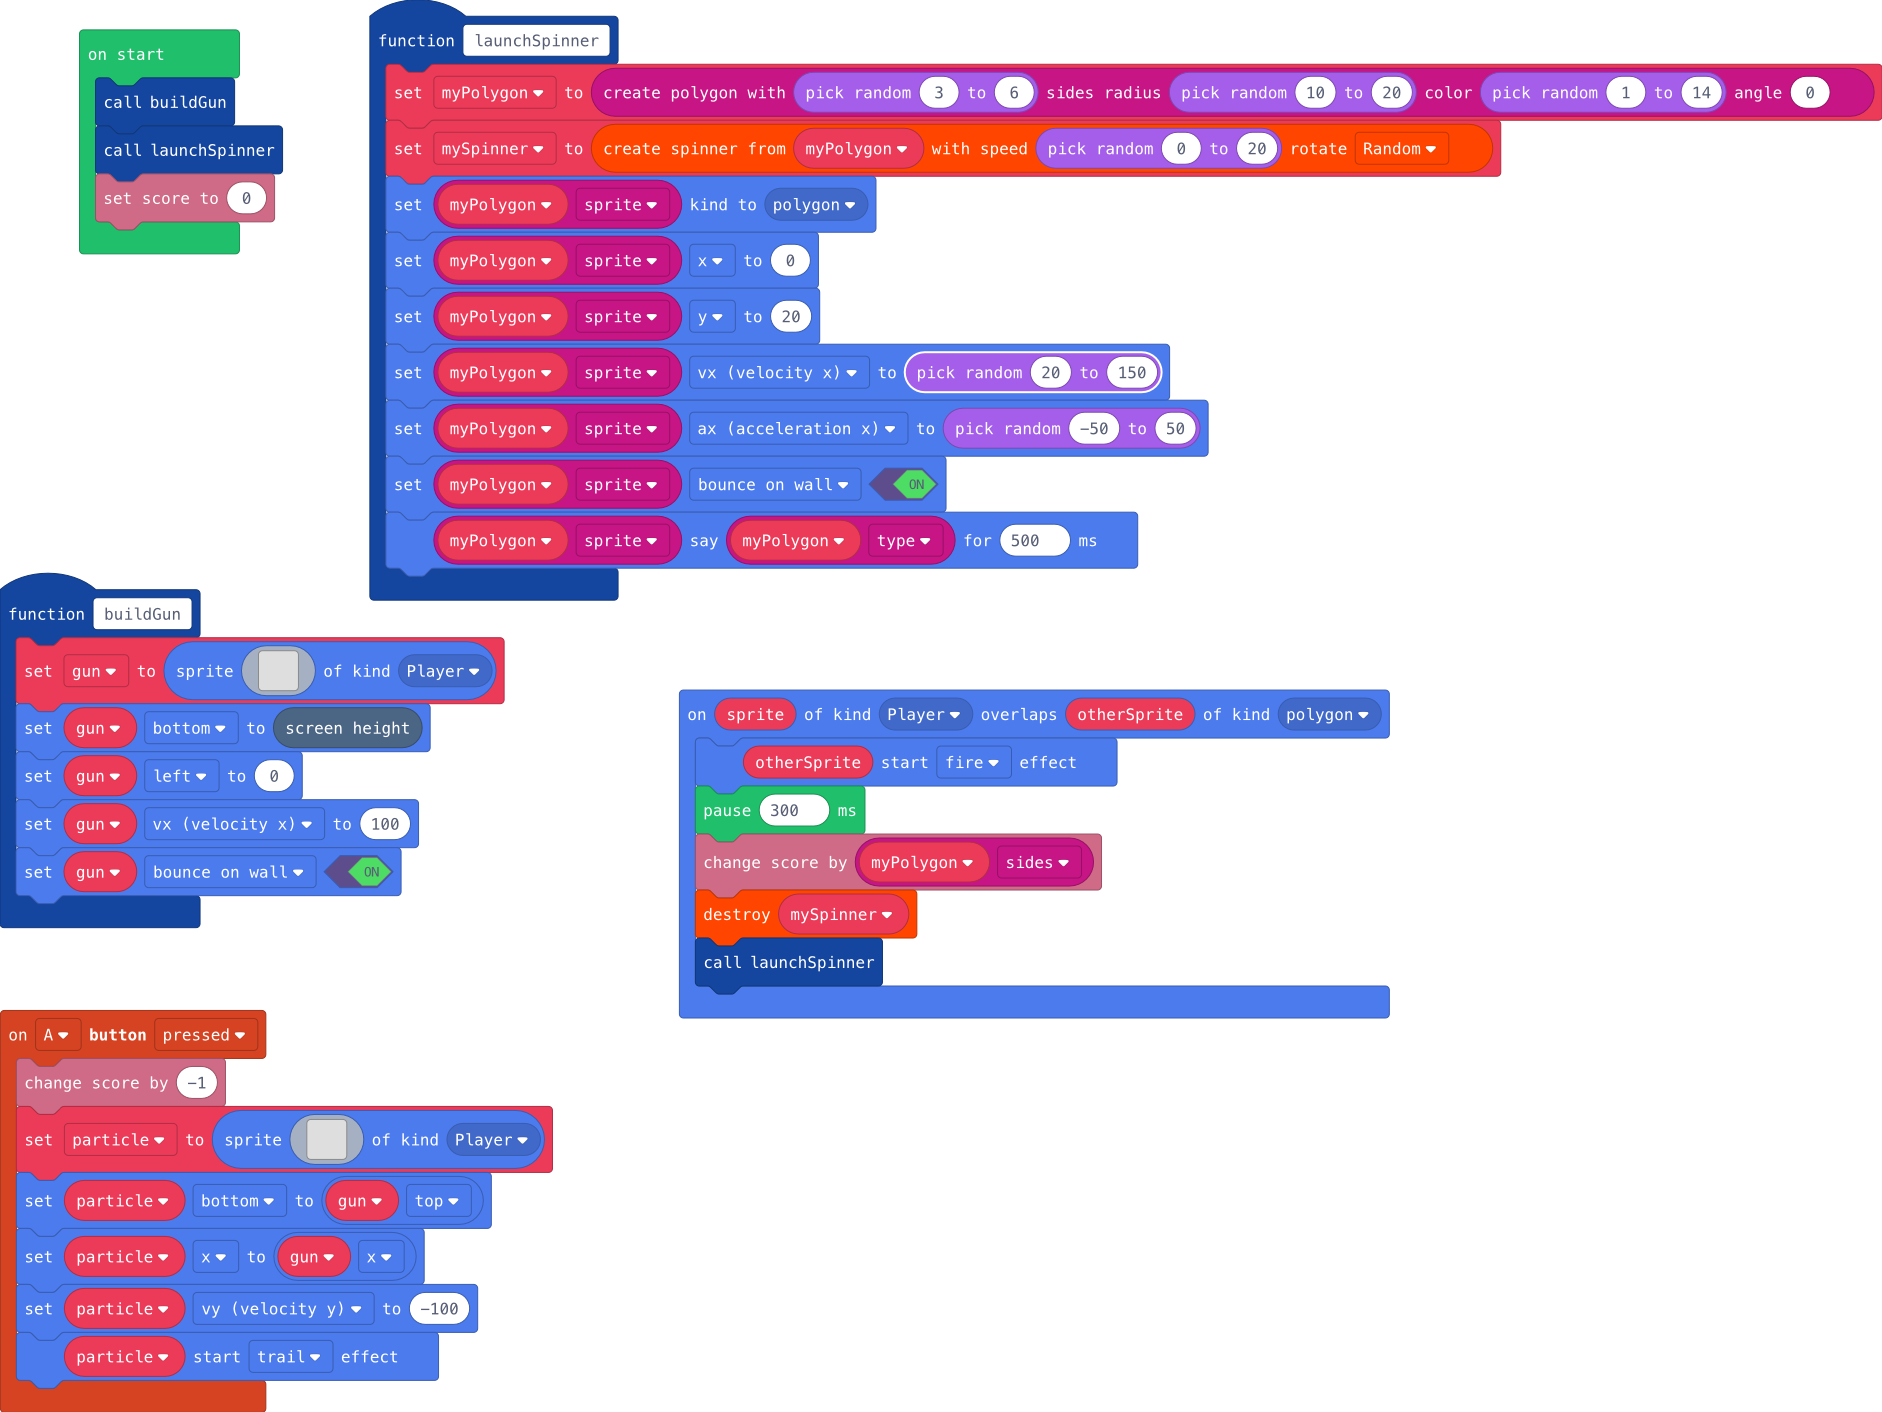
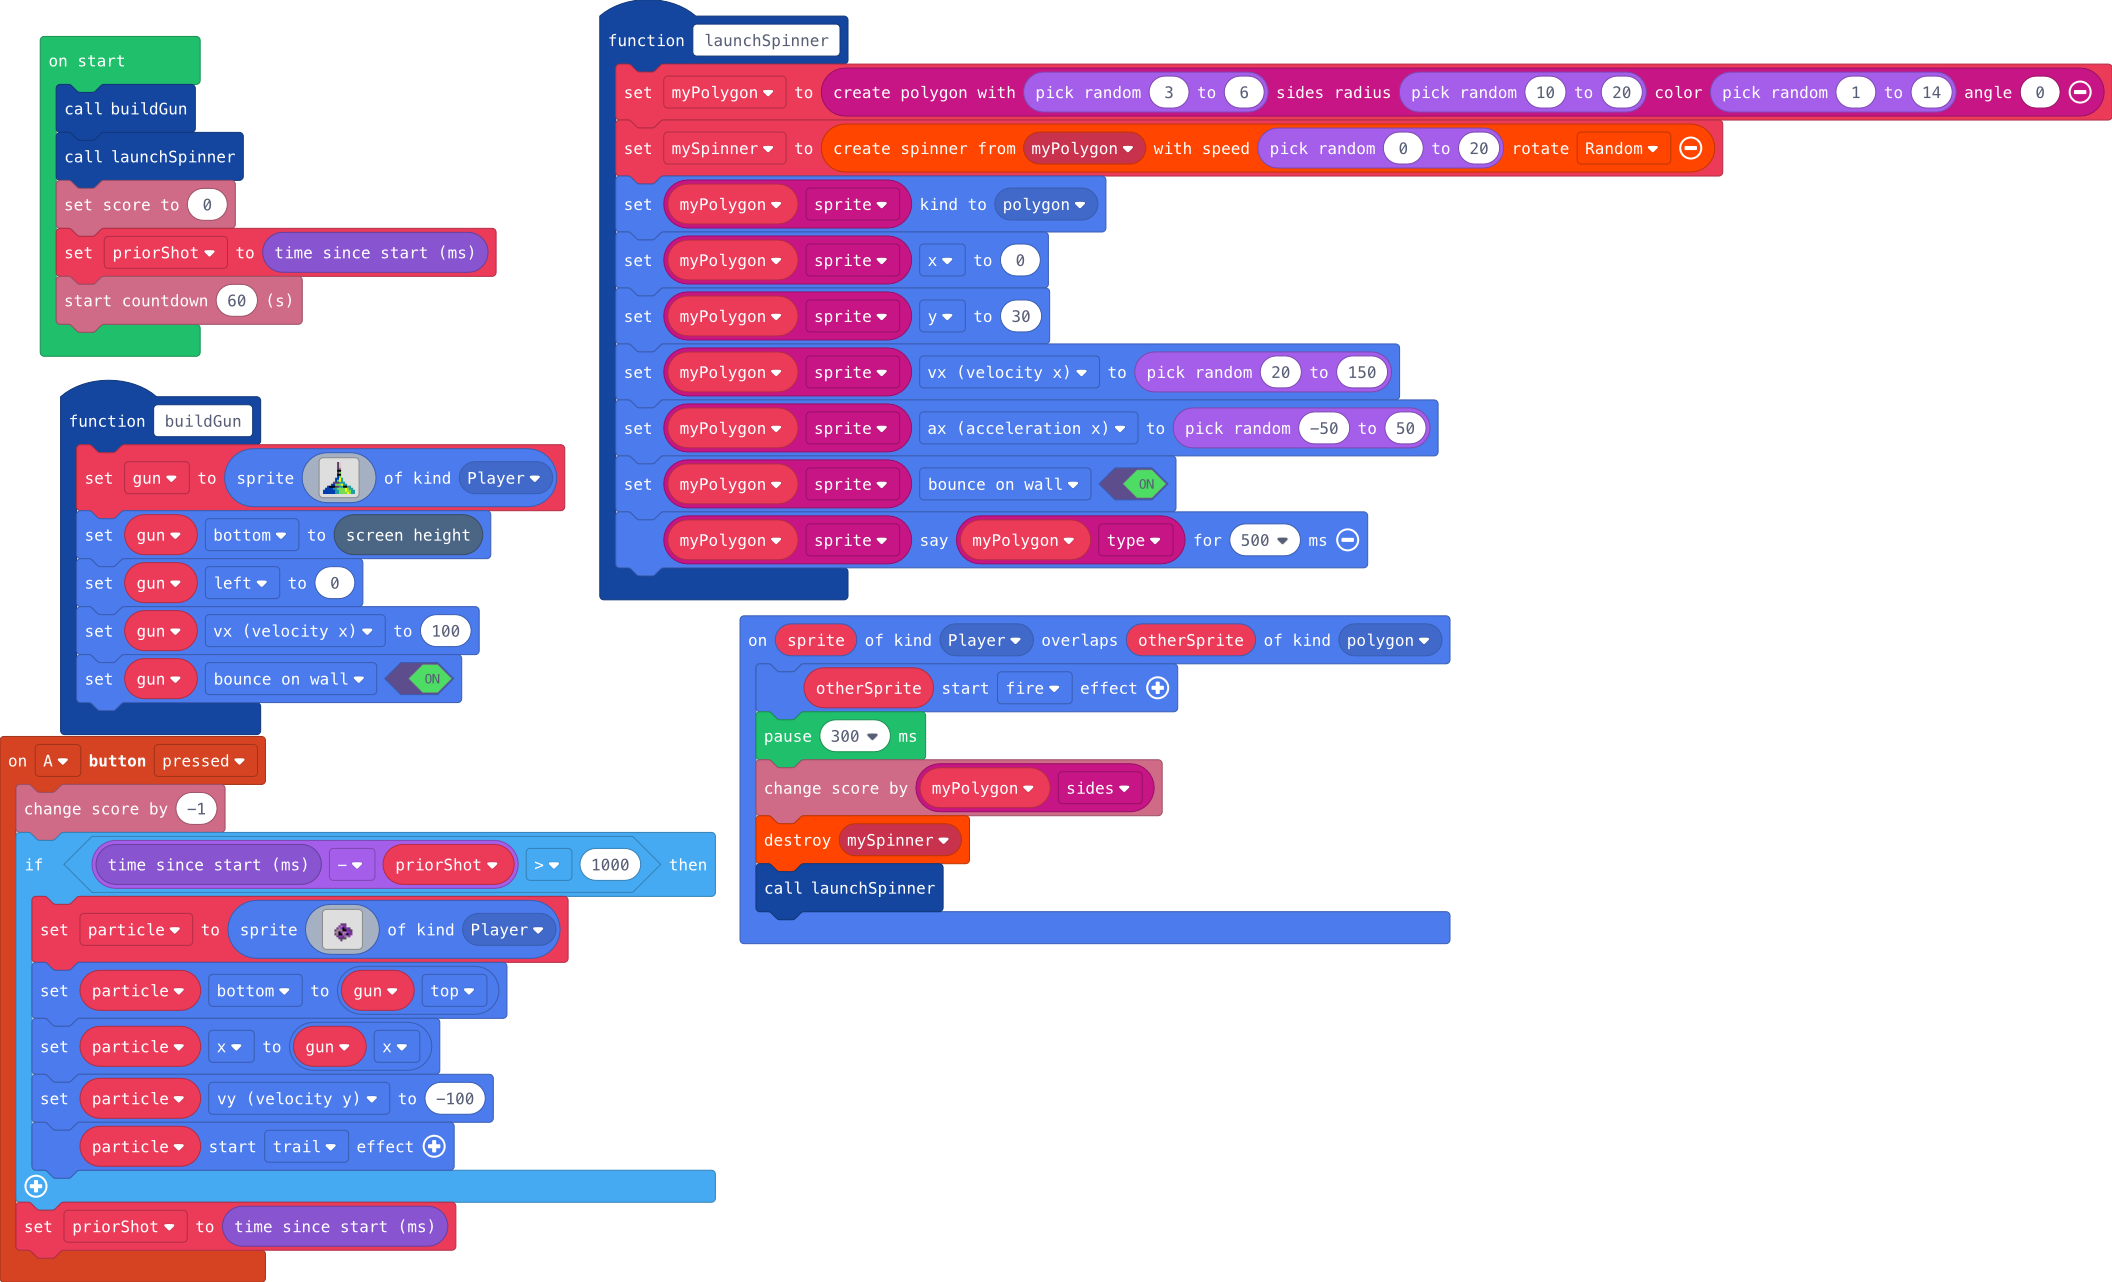
Update main.blocks, main.ts

diff --git a/main.ts b/main.ts
@@ -30,7 +30,7 @@ function launchSpinner () {
     mySpinner = spinner.createSpinner(myPolygon, Math.randomRange(0, 20), Direction.Random)
     myPolygon.sprite.setKind(SpriteKind.polygon)
     myPolygon.sprite.x = 0
-    myPolygon.sprite.y = 20
+    myPolygon.sprite.y = 30
     myPolygon.sprite.vx = Math.randomRange(20, 150)
     myPolygon.sprite.ax = Math.randomRange(-50, 50)
     myPolygon.sprite.setFlag(SpriteFlag.BounceOnWall, true)
@@ -38,7 +38,8 @@ function launchSpinner () {
 }
 controller.A.onEvent(ControllerButtonEvent.Pressed, function () {
     info.changeScoreBy(-1)
-    particle = sprites.create(img`
+    if (game.runtime() - priorShot > 1000) {
+        particle = sprites.create(img`
 . . . . . . . . . . . . . . . . 
 . . . . . . . . . . . . . . . . 
 . . . . . . . . . . . . . . . . 
@@ -56,10 +57,12 @@ controller.A.onEvent(ControllerButtonEvent.Pressed, function () {
 . . . . . . . . . . . . . . . . 
 . . . . . . . . . . . . . . . . 
 `, SpriteKind.Player)
-    particle.bottom = gun.top
-    particle.x = gun.x
-    particle.vy = -100
-    particle.startEffect(effects.trail)
+        particle.bottom = gun.top
+        particle.x = gun.x
+        particle.vy = -100
+        particle.startEffect(effects.trail)
+    }
+    priorShot = game.runtime()
 })
 sprites.onOverlap(SpriteKind.Player, SpriteKind.polygon, function (sprite, otherSprite) {
     otherSprite.startEffect(effects.fire)
@@ -72,6 +75,9 @@ let particle: Sprite = null
 let mySpinner: spinner.Spinner = null
 let myPolygon: Polygon = null
 let gun: Sprite = null
+let priorShot = 0
 buildGun()
 launchSpinner()
 info.setScore(0)
+priorShot = game.runtime()
+info.startCountdown(60)
